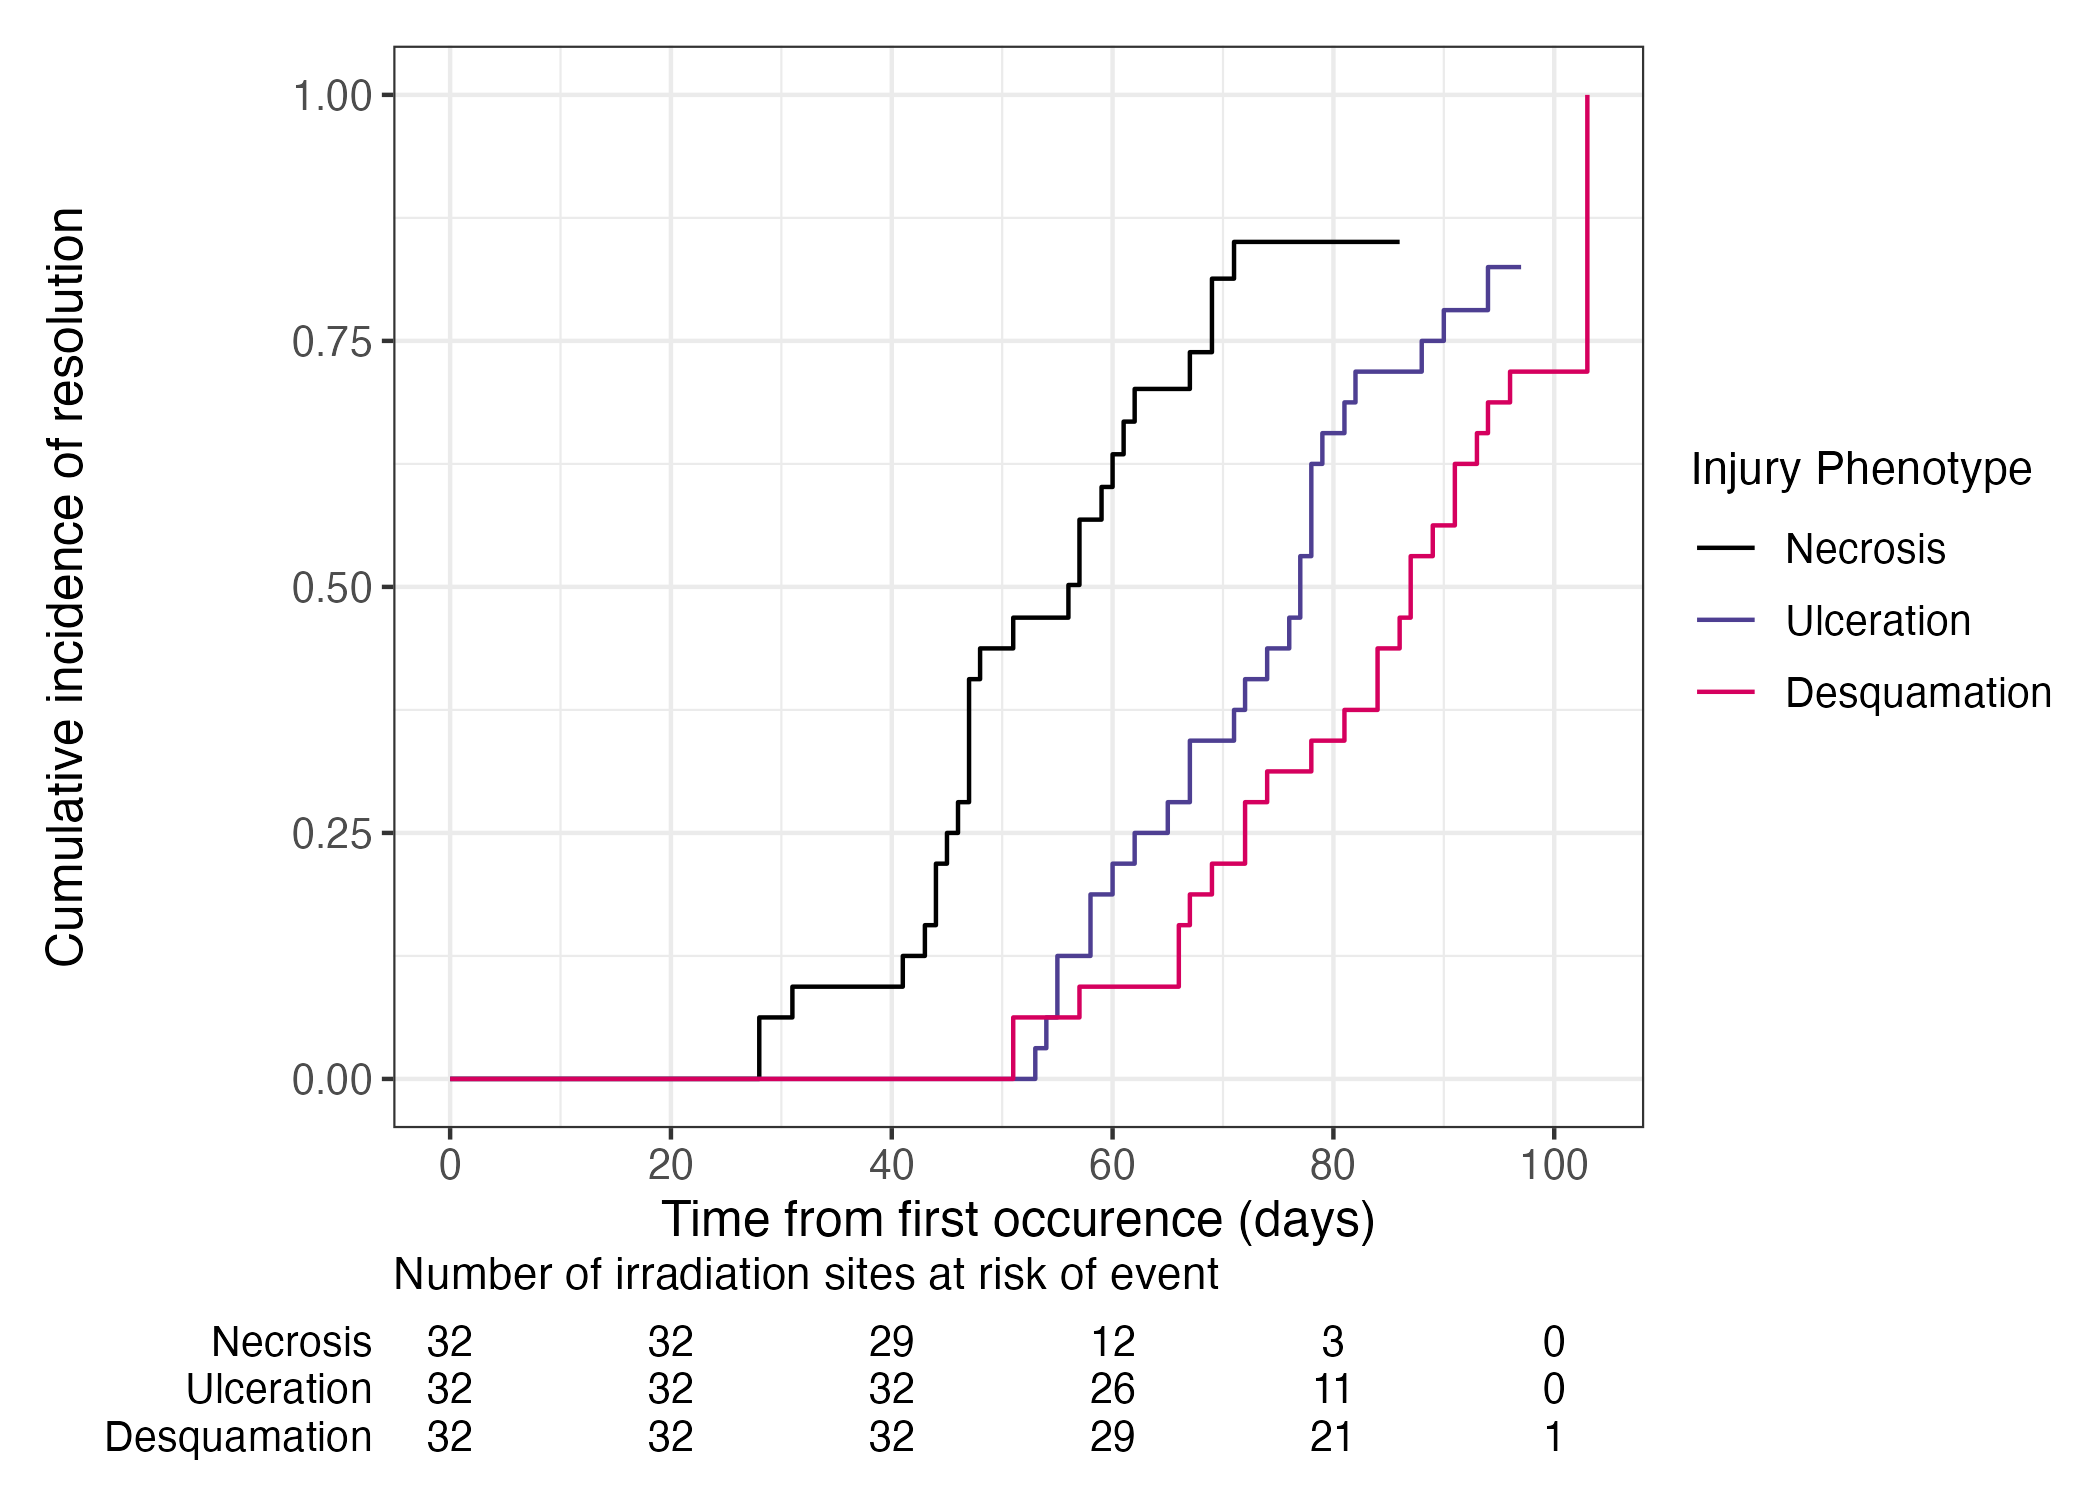
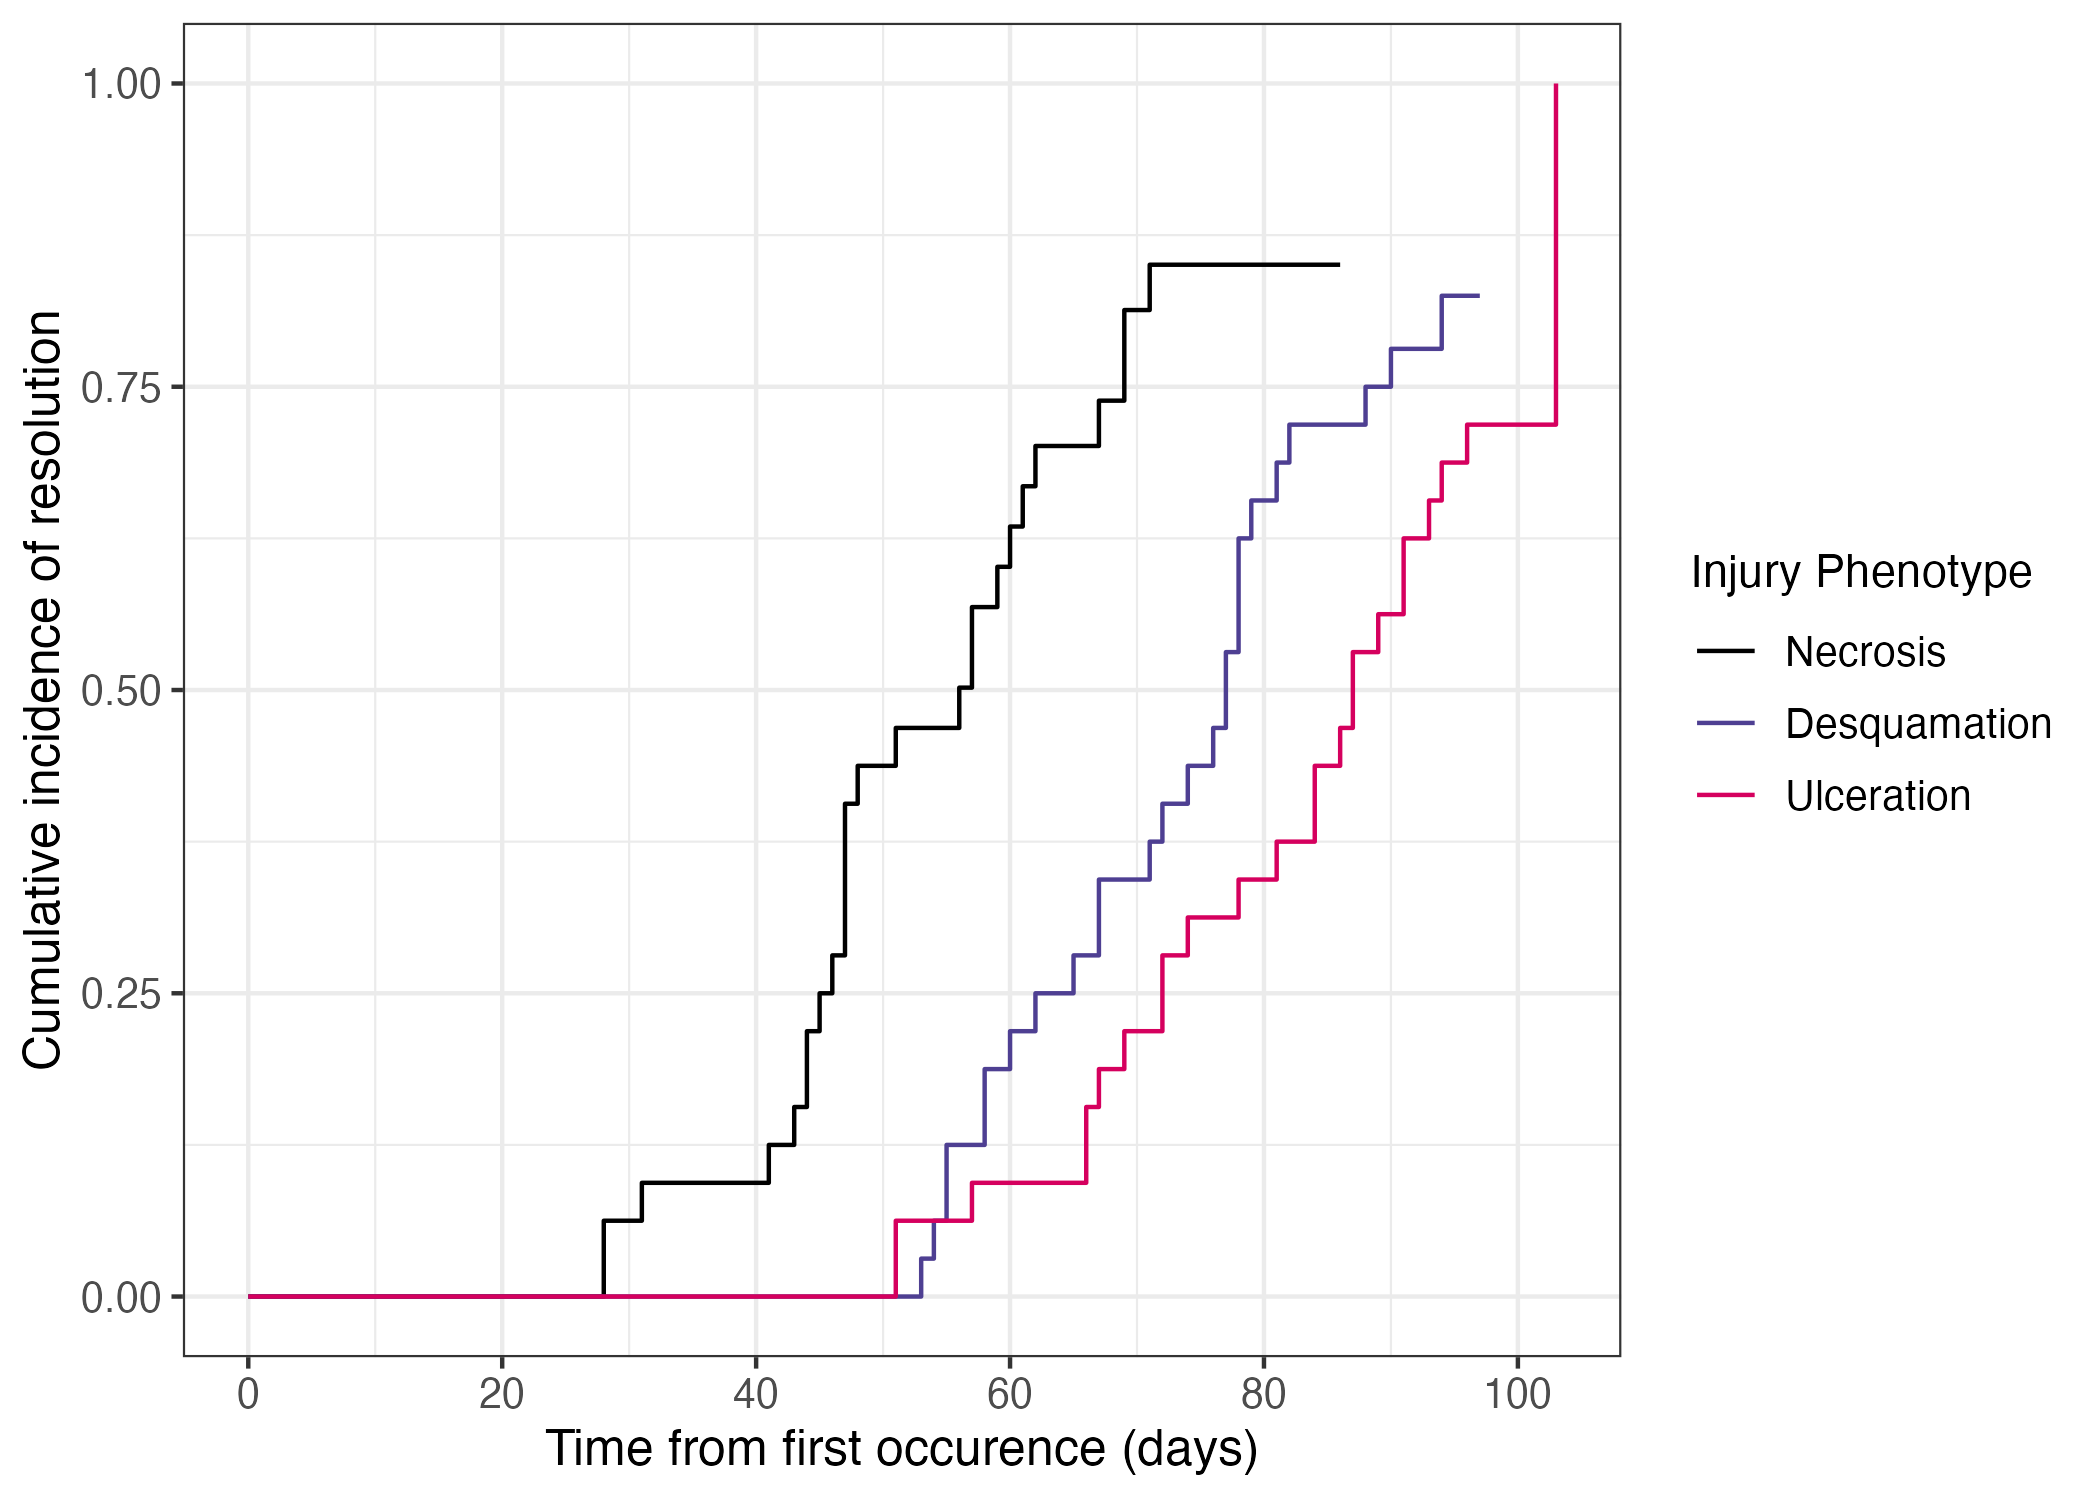
Updates to plots, x-axis rename and risktable addition to KM

diff --git a/umb_cri_model_figures.md b/umb_cri_model_figures.md
@@ -74,7 +74,7 @@ floating_bar_wound_type <- df_injury |>
   geom_errorbar(aes(xmin = avg_end, xmax = avg_end + sem_end, y = wound_type), width = 0.2) +
   theme_bw() +
   labs(
-    x = "Days after irradiation",
+    x = "Days after radiation exposure",
     y = "Injury Phenotype"
   ) +
   theme(legend.position = "none")
@@ -97,7 +97,7 @@ boxplot_wound_type <- df_injury |>
   geom_boxplot(aes(x = wound_end, y = wound_type), fill = "#FF2A45", alpha = 0.8) +
   theme_bw() +
   labs(
-    x = "Days after irradiation",
+    x = "Days after radiation exposure",
     y = "Injury Phenotype"
   ) +
   theme(legend.position = "none") 
@@ -166,46 +166,37 @@ names(four_pheno_km_fit$strata) <- c("Necrosis", "Ulceration", "Desquamation", "
 
 # Create figure
 four_pheno_km <- four_pheno_km_fit |> 
-  ggsurvfit(type = "risk") +
-  scale_color_manual(values = manual_cb) +
-  scale_x_continuous(breaks = c(0, 20, 40, 60, 80, 100)) +
-  add_risktable(
-    times = c(0, 20, 40, 60, 80, 100),
-    risktable_stats = "n.risk", 
-    stats_label = "Number of irradiation sites at risk of event") +
-  labs(
-    x = "Time from first occurence (days)",
-    y = "Cumulative incidence of resolution",
-    color = "Injury Phenotype"
-  ) +
-  ylim(0, 1) +
-  theme(legend.position = "right")
+  ggsurvplot(fun = "event", color = "strata", palette = manual_cb,
+             xlab = "Time from first occurence (days)",
+             ylab = "Cumulative incidence of resolution",
+             legend.title = "Injury Phenotype",
+             break.x.by = 20, risk.table.y.text = F,
+             risk.table.title = "Number of irradiation sites at risk of event",
+             risk.table = TRUE, risk.table.col = "strata", 
+             fontsize = 4,
+             ggtheme=theme_bw(), tables.theme = theme_classic(), 
+             legend = "right") 
 
-ggsave(plot = four_pheno_km, filename = "images/combined_kaplan_meier_four_phenos.png")
+print(four_pheno_km) # save as 601x1000px png 
 ```
 
-    ## Saving 7 x 5 in image
+![](umb_cri_model_figures_files/figure-gfm/all%20four%20phenotypes-1.png)<!-- -->
+
+``` r
+#ggsave(plot = print(four_pheno_km), filename = "images/combined_kaplan_meier_four_phenos.pdf")
+```
 
 Additionally, the following plot is the same, but without the erythema
 phenotype.
 
 ``` r
 # Fit and add custom names
-three_pheno_km_fit <- df_injury |> 
+three_pheno_km <- df_injury |> 
   filter(wound_type != "Erythema") |> 
-  survfit(Surv(days_to_closure, wound_resolved) ~ wound_type, data = _, conf.type = "log-log") 
-
-names(three_pheno_km_fit$strata) <- c("Necrosis", "Ulceration", "Desquamation")
-
-# Create image
-three_pheno_km <- three_pheno_km_fit |> 
+  survfit(Surv(days_to_closure, wound_resolved) ~ wound_type, data = _, conf.type = "log-log") |> 
   ggsurvfit(type = "risk") +
   scale_x_continuous(breaks = c(0, 20, 40, 60, 80, 100)) +
-  add_risktable(
-    times = c(0, 20, 40, 60, 80, 100),
-    risktable_stats = "n.risk", 
-    stats_label = "Number of irradiation sites at risk of event") +
-  scale_color_manual(values = manual_cb) +
+  scale_color_manual(values = manual_cb, labels = c("Necrosis", "Desquamation", "Ulceration")) +
   labs(
     x = "Time from first occurence (days)",
     y = "Cumulative incidence of resolution",
